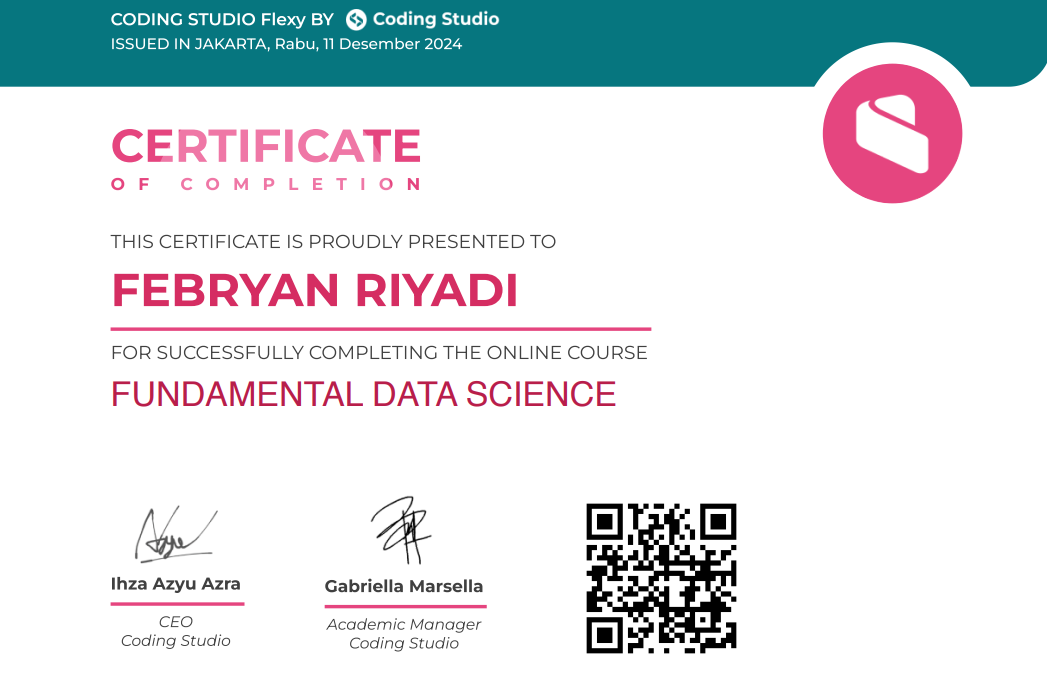
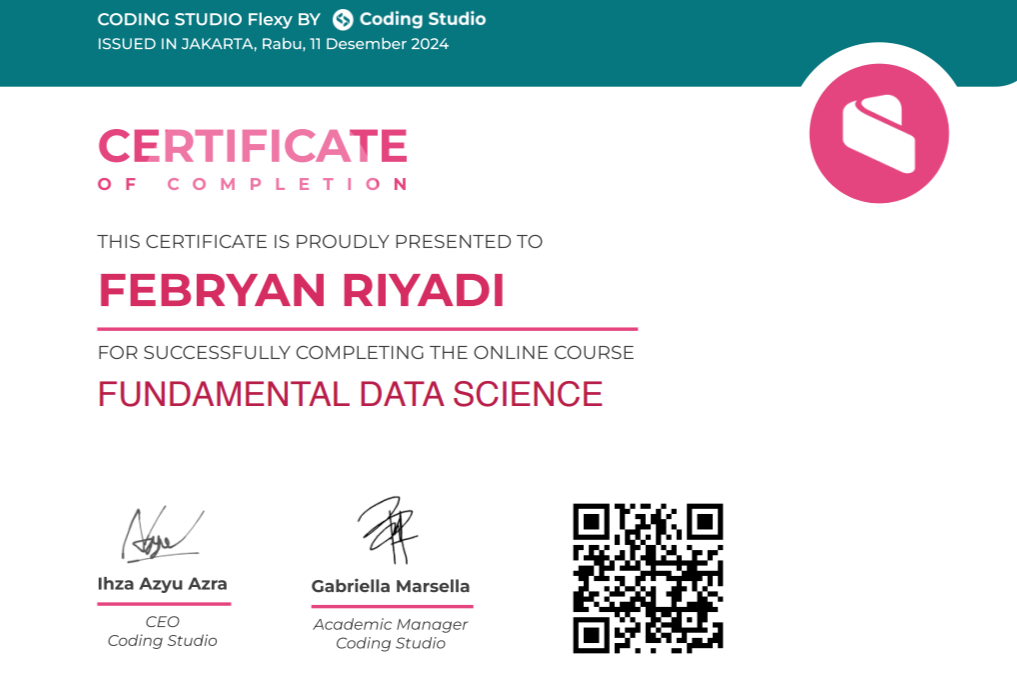
certificate img size update

diff --git a/src/views/CertificateView.vue b/src/views/CertificateView.vue
@@ -163,7 +163,7 @@ export default {
 
 .cert-image-container {
   width: 100%;
-  aspect-ratio: 5/3;
+  aspect-ratio: 3/2;
   overflow: hidden;
   border-radius: 0.75rem;
 }
